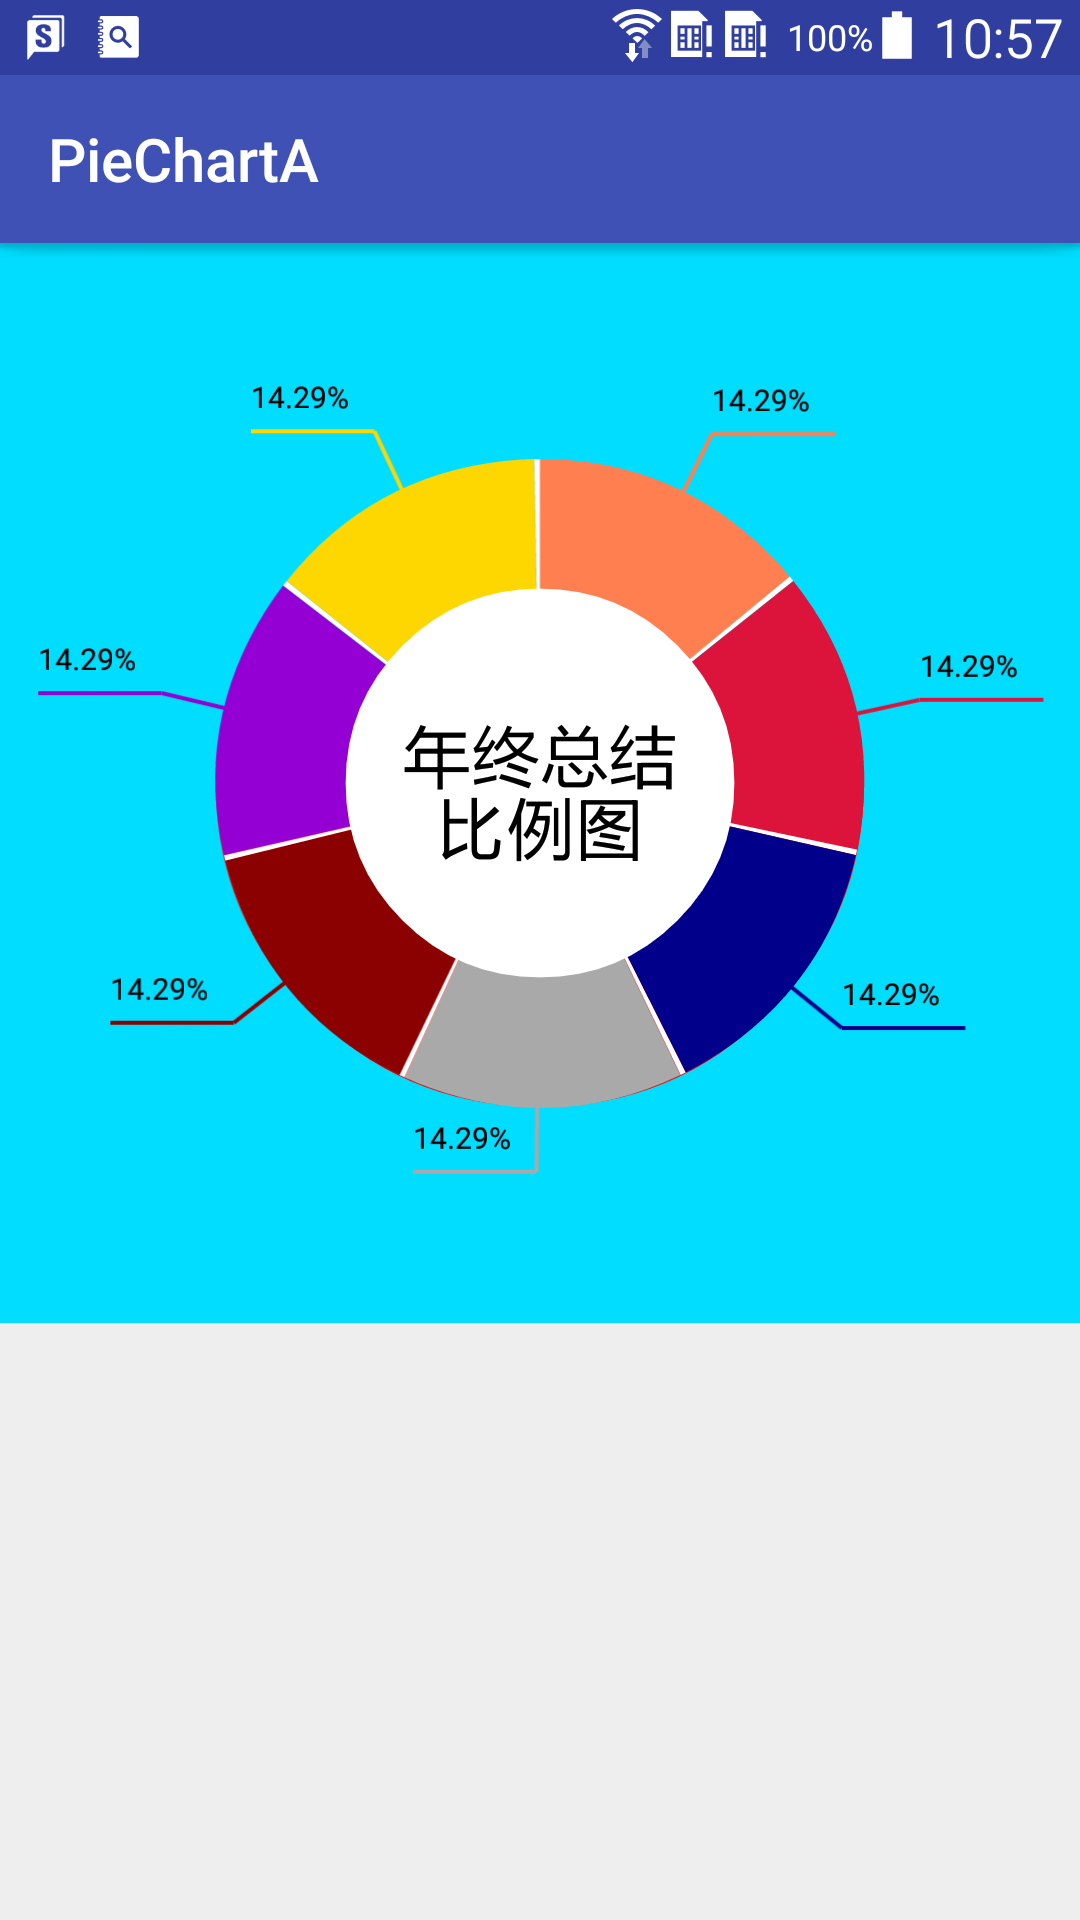
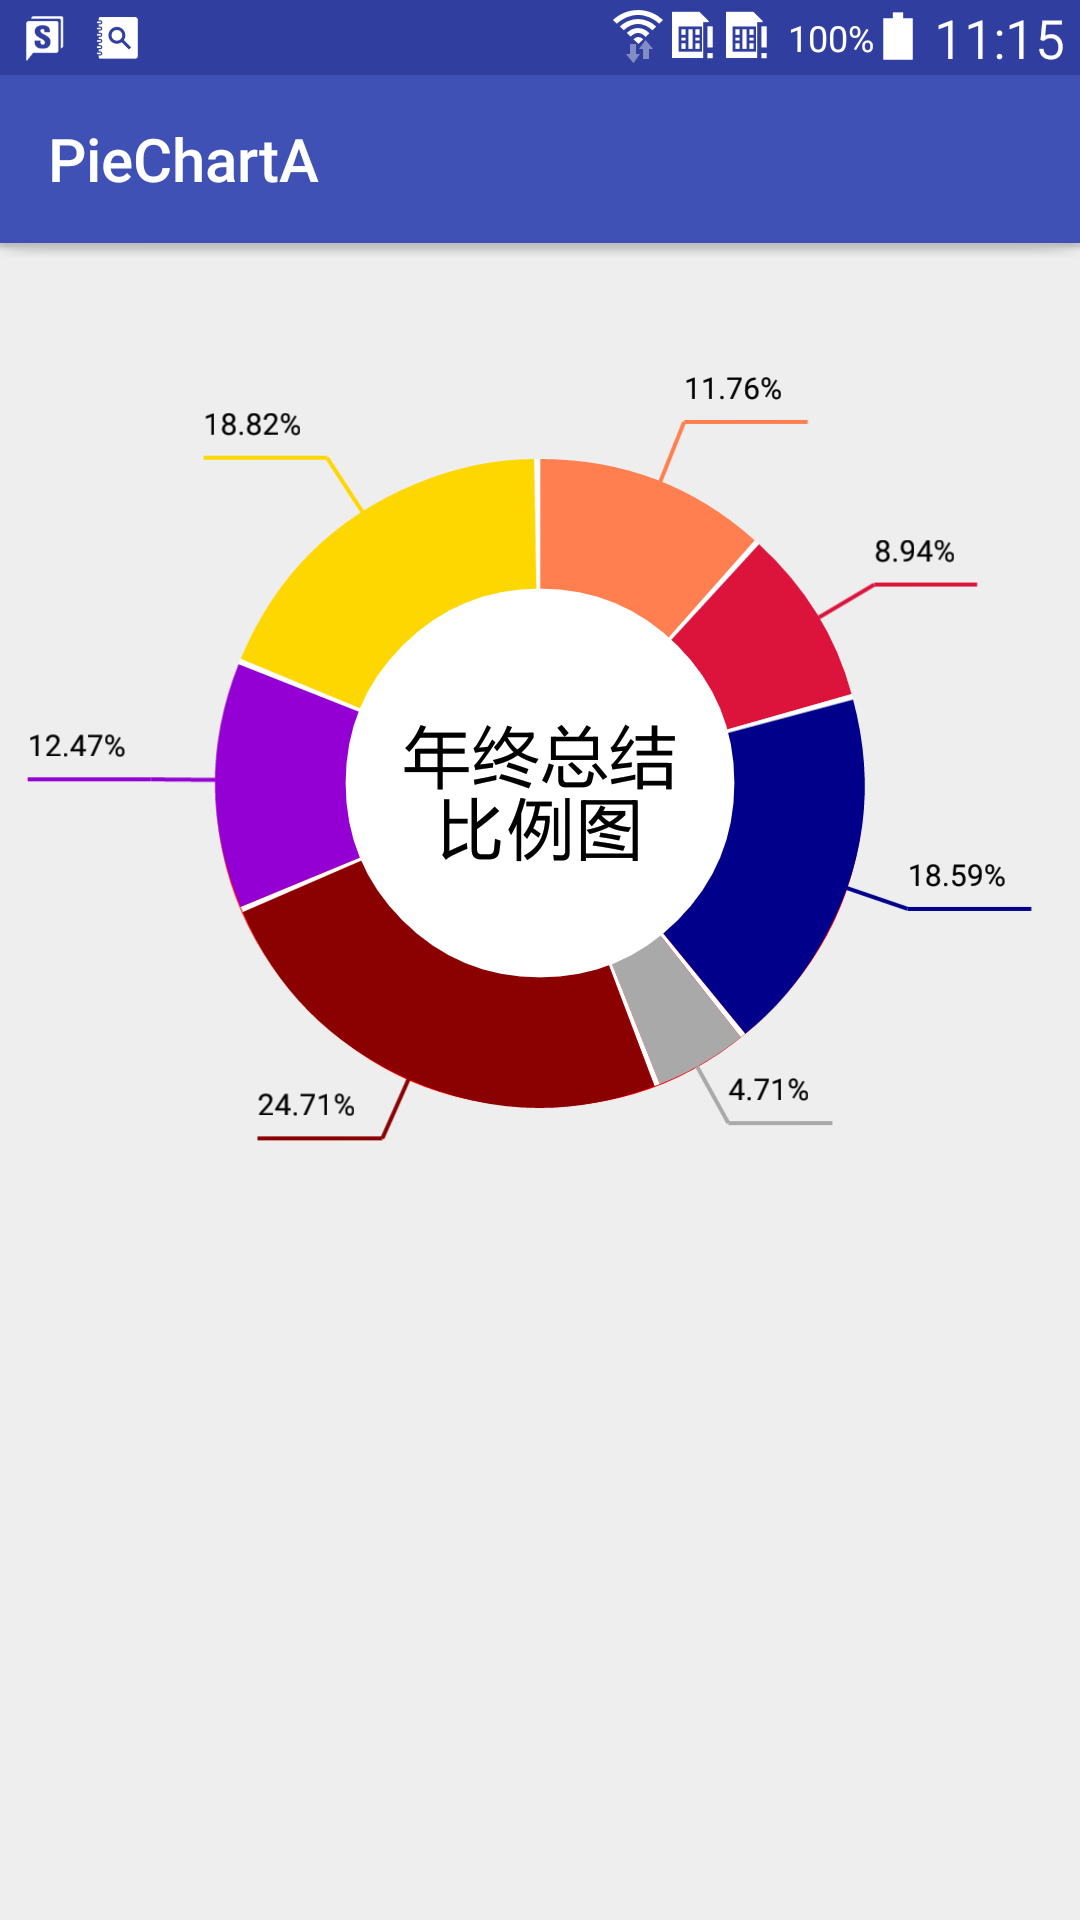
change pic

diff --git a/app/src/main/java/com/infinite/piecharta/MainActivity.java b/app/src/main/java/com/infinite/piecharta/MainActivity.java
@@ -15,12 +15,12 @@ public class MainActivity extends AppCompatActivity {
         setContentView(R.layout.activity_main);
         one= (PieChart) findViewById(R.id.one);
         TestEntity entity=new TestEntity(50,"#FF7F50");
-        TestEntity entity1=new TestEntity(50,"#DC143C");
-        TestEntity entity2=new TestEntity(50,"#00008B");
-        TestEntity entity3=new TestEntity(50,"#A9A9A9");
-        TestEntity entity4=new TestEntity(50,"#8B0000");
-        TestEntity entity5=new TestEntity(50,"#9400D3");
-        TestEntity entity6=new TestEntity(50,"#FFD700");
+        TestEntity entity1=new TestEntity(38,"#DC143C");
+        TestEntity entity2=new TestEntity(79,"#00008B");
+        TestEntity entity3=new TestEntity(20,"#A9A9A9");
+        TestEntity entity4=new TestEntity(105,"#8B0000");
+        TestEntity entity5=new TestEntity(53,"#9400D3");
+        TestEntity entity6=new TestEntity(80,"#FFD700");
 
         List<IPieElement> list=new ArrayList<>();
         list.add(entity);
